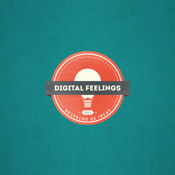
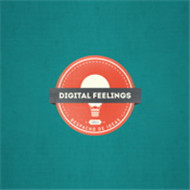
hexgon

diff --git a/jfbst_index/static/assets/css/index.css b/jfbst_index/static/assets/css/index.css
@@ -193,8 +193,8 @@
 
 .hex .corner-1:before,
 .hex .corner-2:before {
-    width: 173px;
-    height: 173px;
+    width: 190px;
+    height: 190px;
     content: '';
     position: absolute;
     background: inherit;
@@ -225,11 +225,11 @@
 }
 
 .hex .corner-2:before {
-    -webkit-transform: rotate(60deg) translate(-48px, -11px);
-    -moz-transform: rotate(60deg) translate(-48px, -11px);
-    -ms-transform: rotate(60deg) translate(-48px, -11px);
-    -o-transform: rotate(60deg) translate(-48px, -11px);
-    transform: rotate(60deg) translate(-48px, -11px);
+    -webkit-transform: rotate(60deg) translate(-35px, -15px);
+    -moz-transform: rotate(60deg) translate(-35px, -15px);
+    -ms-transform: rotate(60deg) translate(-35px, -15px);
+    -o-transform: rotate(60deg) translate(-35px, -15px);
+    transform: rotate(60deg) translate(-35px, -15px);
     bottom:0;
 }
 
